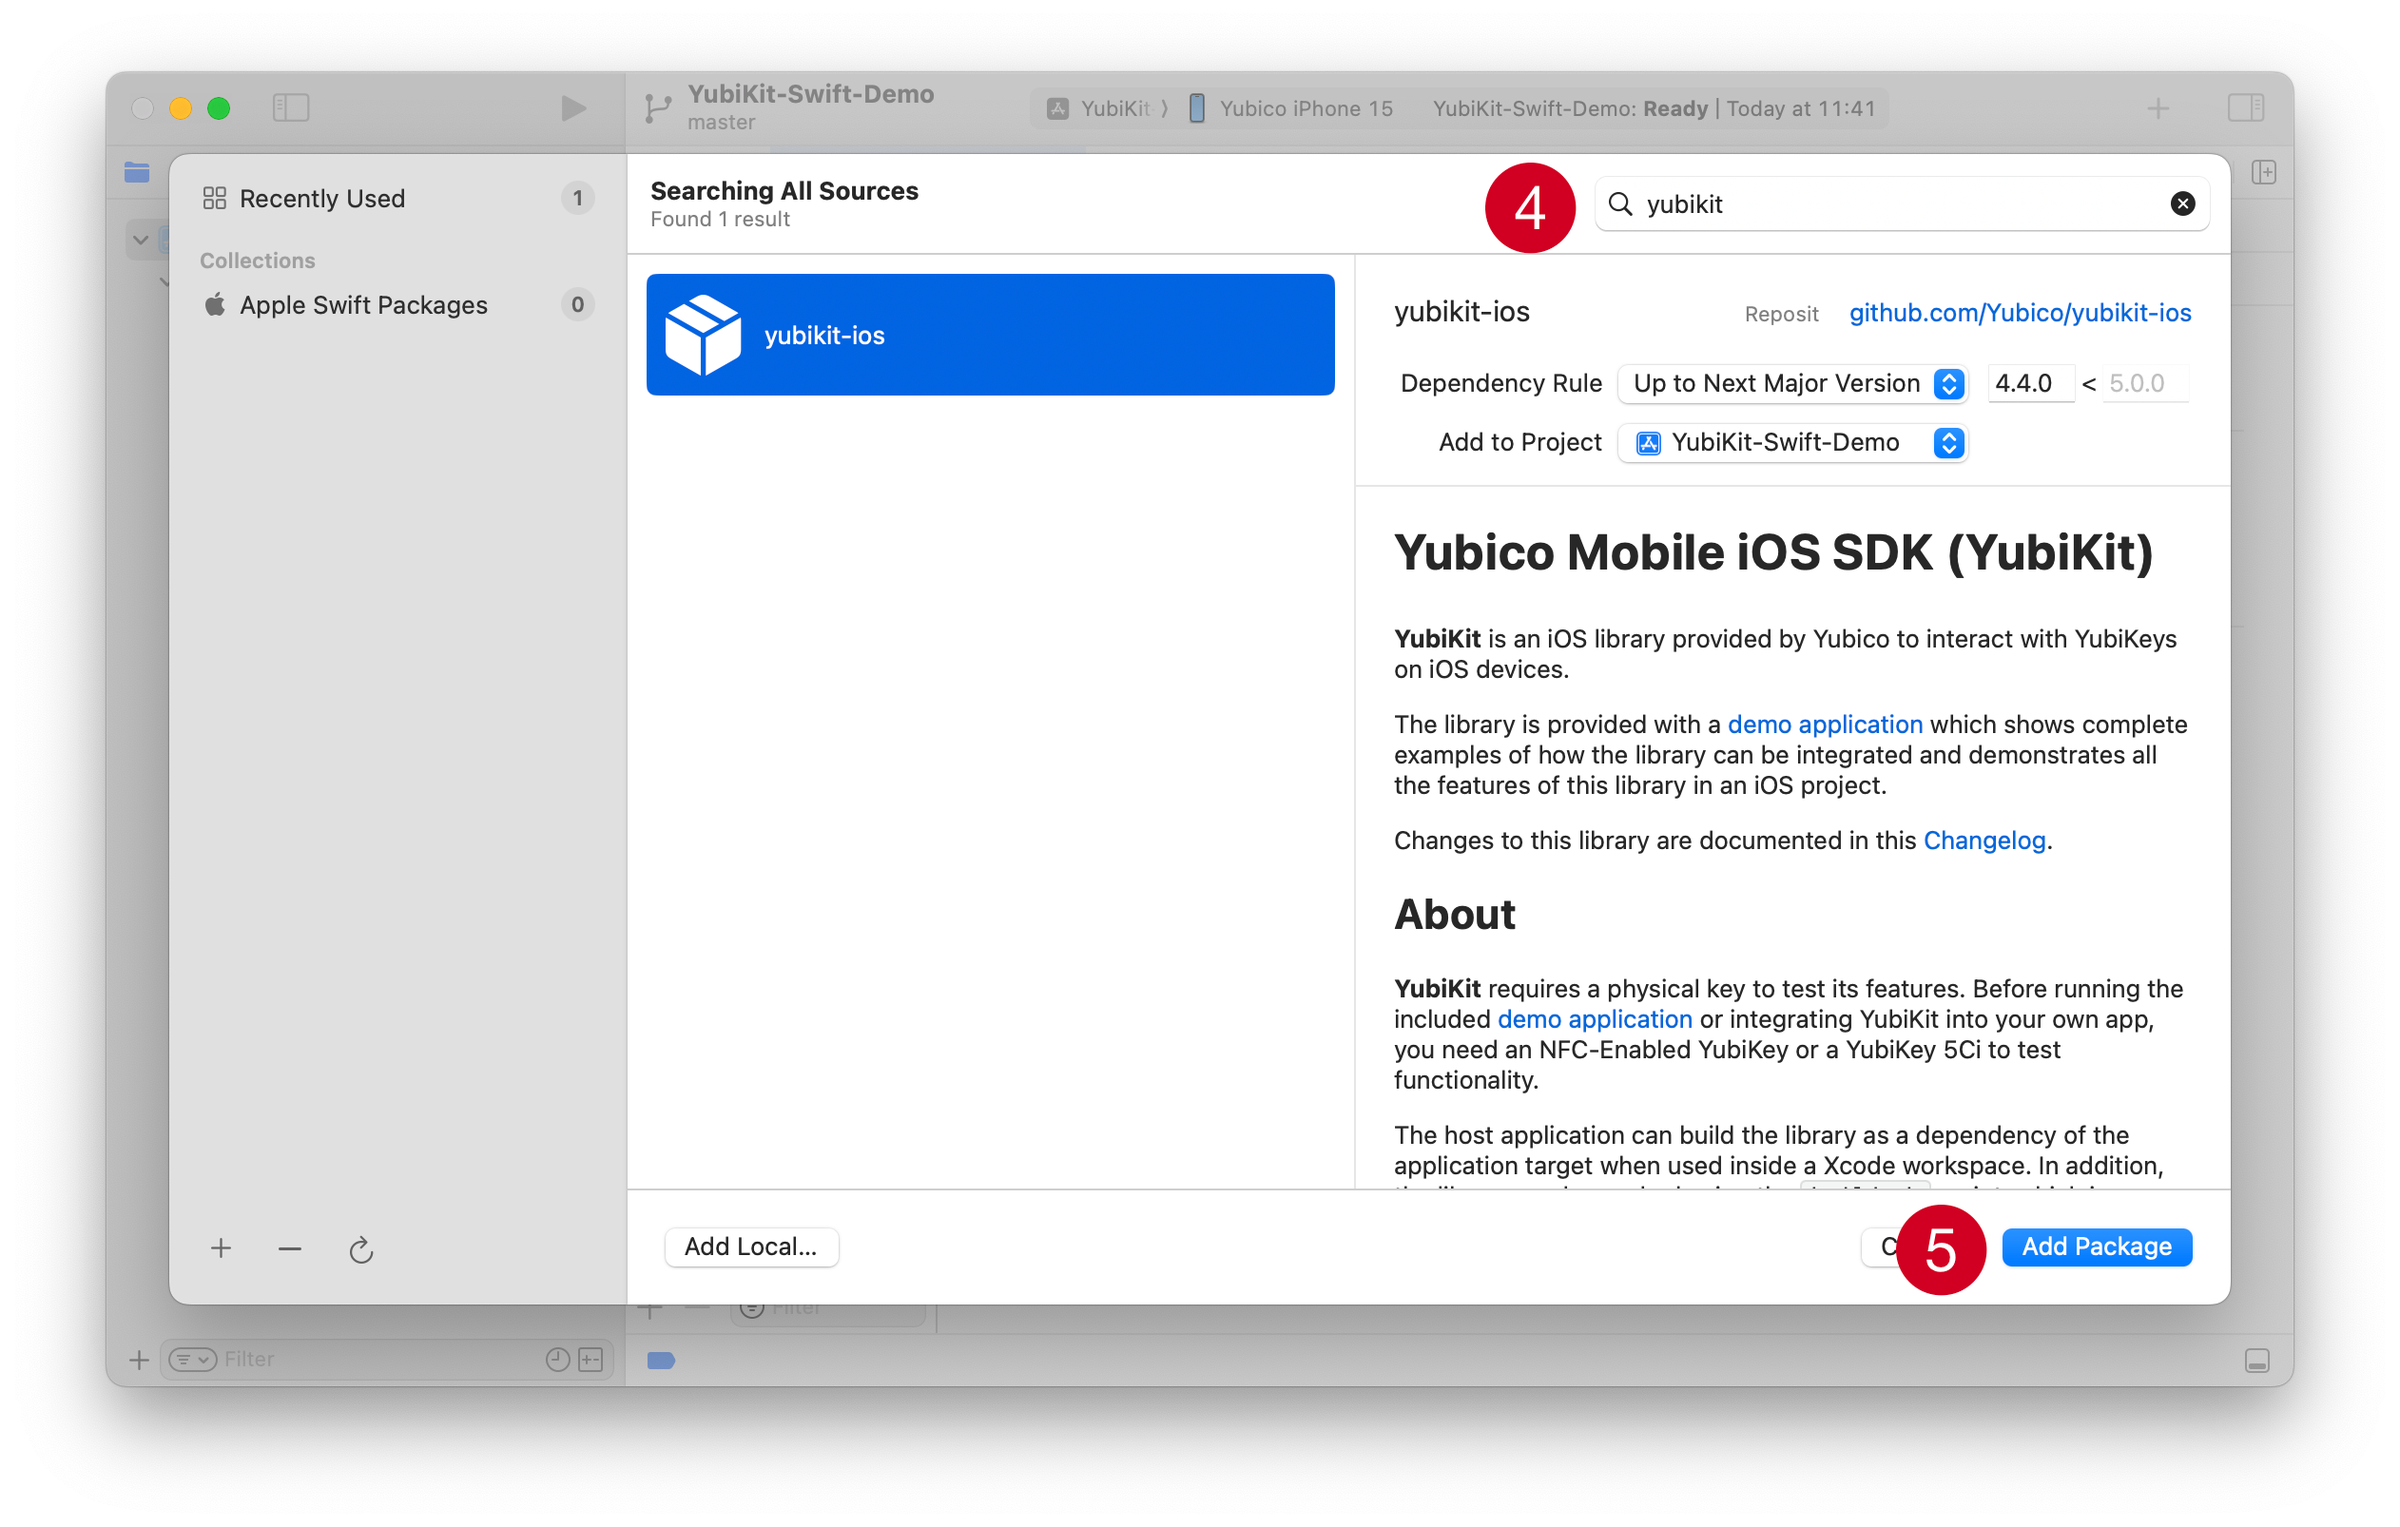
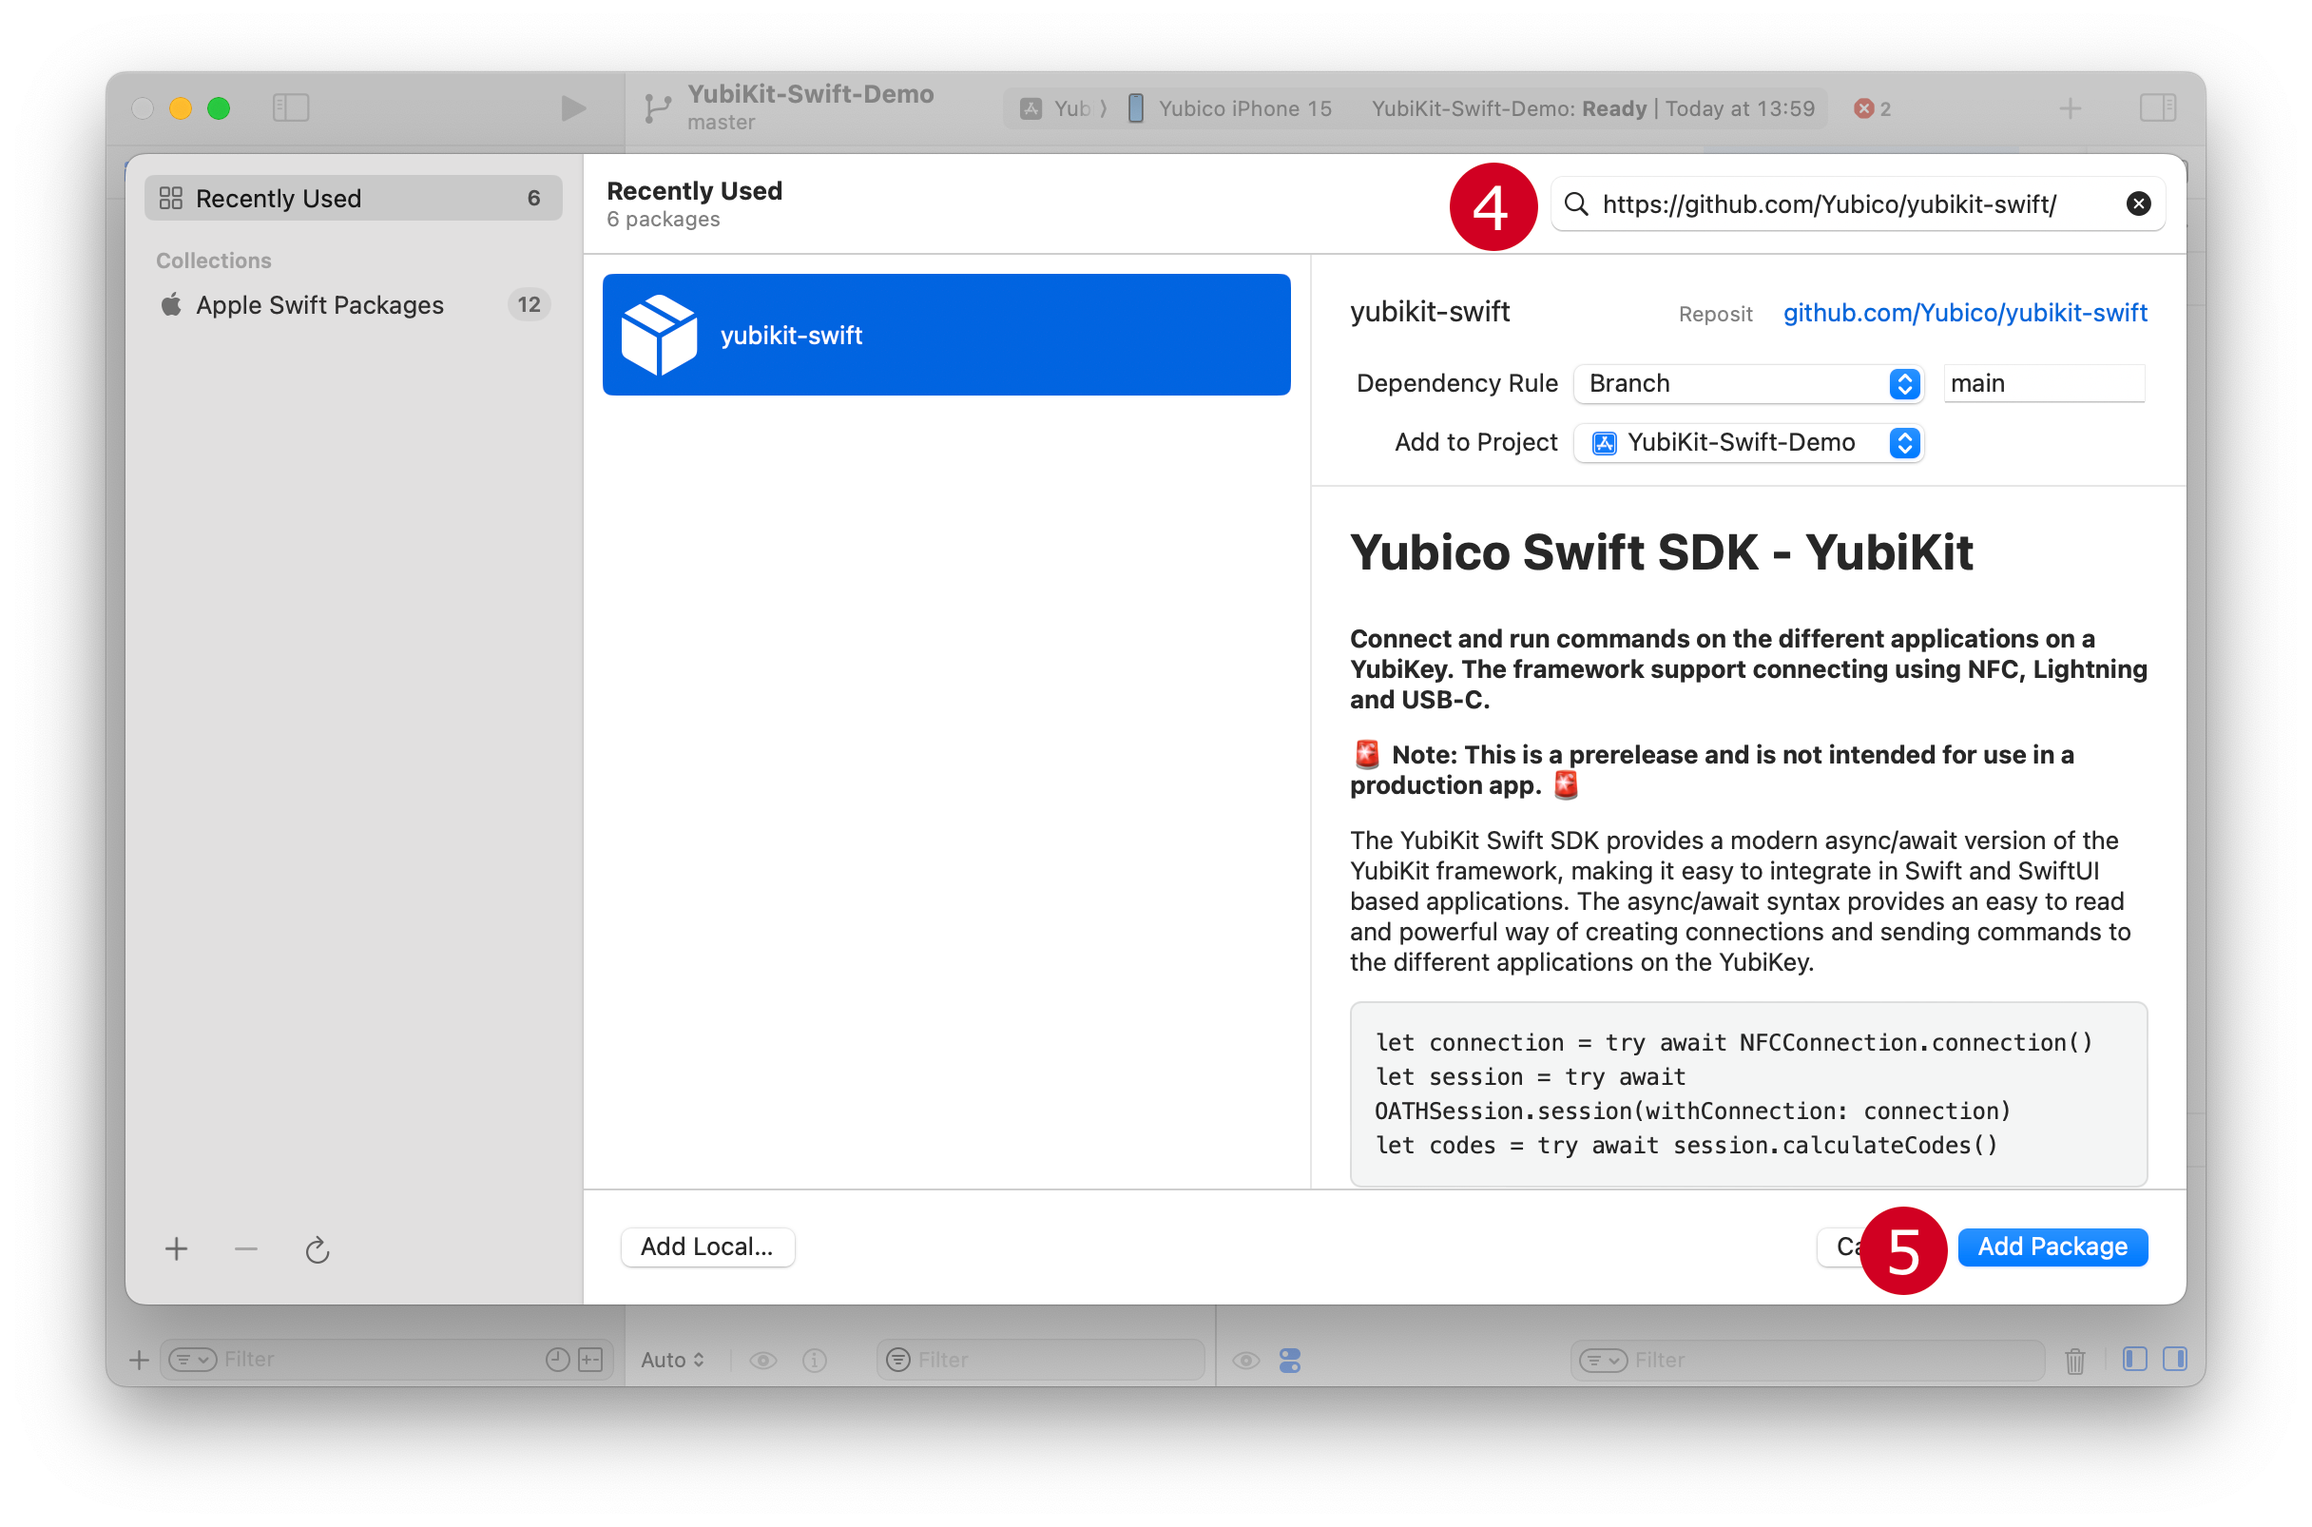
Updated getting started docs with links to public repo.

diff --git a/YubiKit/YubiKit/YubiKit.docc/Resources/GettingStarted.md b/YubiKit/YubiKit/YubiKit.docc/Resources/GettingStarted.md
@@ -14,7 +14,7 @@ The YubiKit framework is distributed using the Swift Package Manager. To add the
 
 ![An image showing how to add the YubiKit SDK to your Xcode project.](add-framework-1.png)
 
-4. Enter `yubikit-swift` in the search field and select the Yubico Swift Package.
+4. Enter `https://github.com/Yubico/yubikit-swift/` in the search field and select the Yubico Swift Package.
 
 5. Press the "Add Package" button to add the SDK to your project.
 
